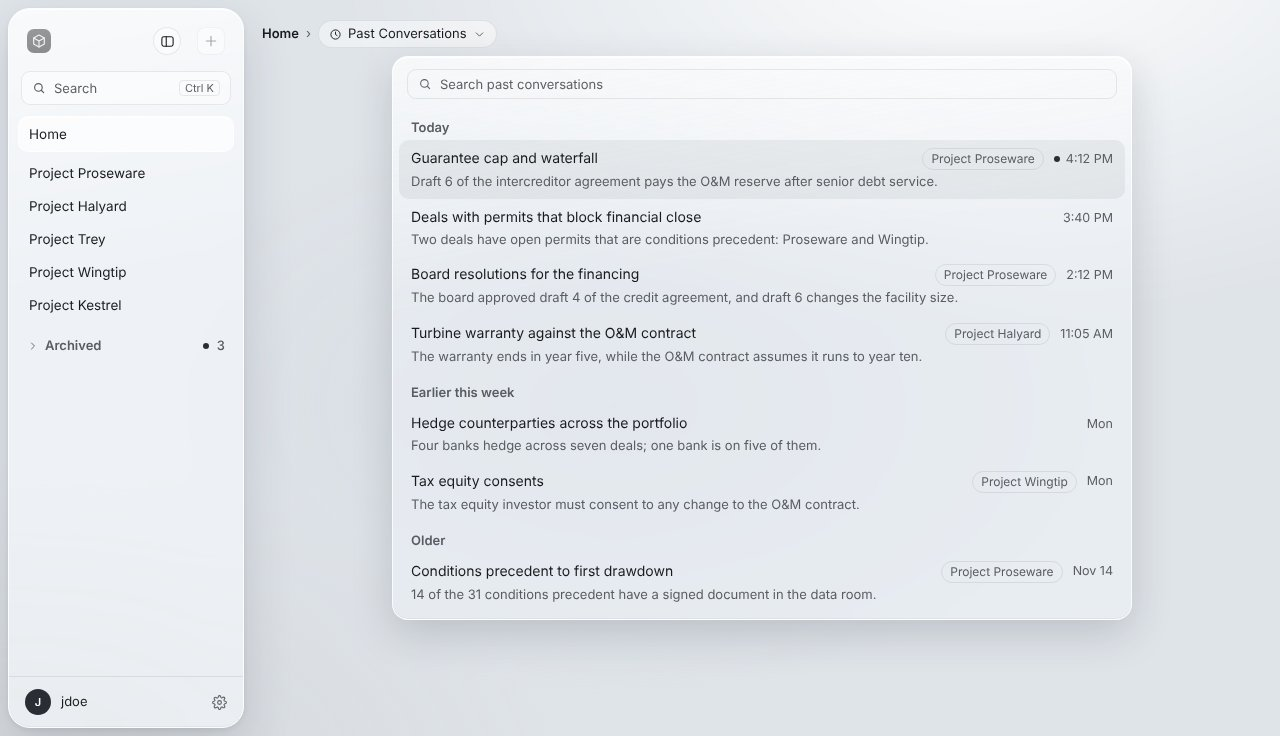
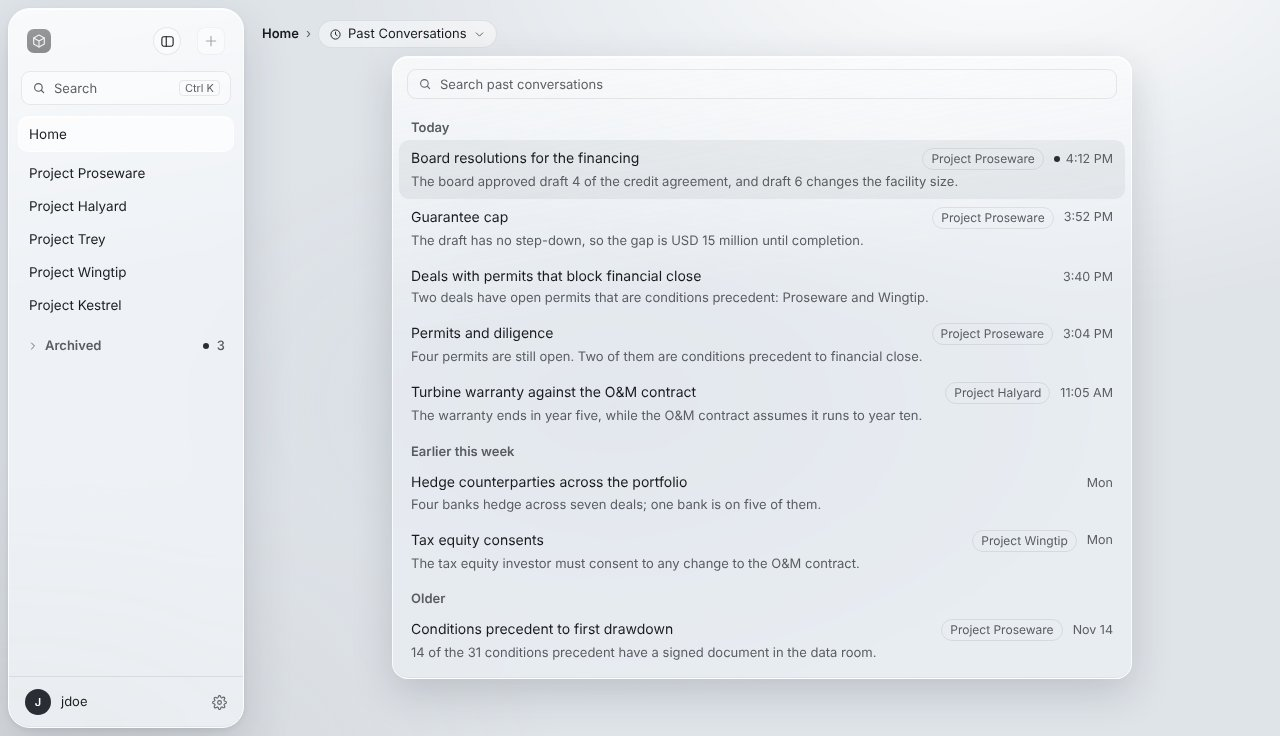
Address the review of the deal screen open points (#888)
Share the stage and the past conversation row instead of copying them, wrap the
two long lines, keep the built Checklist decision and move the one-list decision
to the Deal screen section, complete the section's list of what it replaces,
align Home's past conversations with the deal's, and say that a finished
question stays in Tasks under Completed.

diff --git a/docs/deal-screen/mock-open-questions.js b/docs/deal-screen/mock-open-questions.js
@@ -4,9 +4,6 @@
 // holds; Home opens past conversations from its own header; and the sidebar shows Archived at scale.
 // Loads after mock-qa.js and before mock-screens.js, which calls these builders.
 
-/** The page's stage, as mock-screens.js wraps every screen. */
-const openQuestionStage = (content) => `<section class="stage"><div class="x-stage">${content}</div></section>`;
-
 // ---- the deal's header, Deal Info and Folders ----
 
 const COUNTERPARTY = 'Contoso Wind Partners';
@@ -104,9 +101,11 @@ const RUN_DILIGENCE = '<button type="button" class="btn sm" title="Last run Nov 
 // the filters a short row folds into Filter, as the Checklist does when its row runs short of space
 const FOLDED_FILTERS = `<span class="x-ckfold">${iconButton('filter', 15, 'Filter')}</span>`;
 
-/** The Diligence tab: the approved report, every item with its result, and Run Diligence on its filter row. */
-const diligenceList = () => diligenceReport(false)
-  .replace(`${REPORT_FILTERS}</div>`, `${REPORT_FILTERS}${FOLDED_FILTERS}<span class="x-qact">${RUN_DILIGENCE}</span></div>`);
+// the end of the filter row: the folded filters, then Run Diligence
+const DILIGENCE_FILTER_ROW_END = `${REPORT_FILTERS}${FOLDED_FILTERS}<span class="x-qact">${RUN_DILIGENCE}</span></div>`;
+
+/** The Diligence tab: the approved report, with Run Diligence on its filter row. */
+const diligenceList = () => diligenceReport(false).replace(`${REPORT_FILTERS}</div>`, DILIGENCE_FILTER_ROW_END);
 
 // ---- Tasks: what Needs Input holds ----
 
@@ -149,31 +148,32 @@ const NEEDS_INPUT_TASKS = `<div class="x-lbl">Needs Input</div><div class="x-tgr
 // ---- Home's past conversations ----
 
 // every conversation, newest first, with its deal; a dot before the time marks one whose task result arrived since it
-// was last open
+// was last open, which moves it to the top
 const HOME_PAST_CONVERSATIONS = [
-  ['Today', 'Guarantee cap and waterfall', 'Project Proseware', '4:12 PM',
-    'Draft 6 of the intercreditor agreement pays the O&amp;M reserve after senior debt service.', true],
-  ['Today', 'Deals with permits that block financial close', '', '3:40 PM',
-    'Two deals have open permits that are conditions precedent: Proseware and Wingtip.'],
-  ['Today', 'Board resolutions for the financing', 'Project Proseware', '2:12 PM',
-    'The board approved draft 4 of the credit agreement, and draft 6 changes the facility size.'],
-  ['Today', 'Turbine warranty against the O&amp;M contract', 'Project Halyard', '11:05 AM',
-    'The warranty ends in year five, while the O&amp;M contract assumes it runs to year ten.'],
-  ['Earlier this week', 'Hedge counterparties across the portfolio', '', 'Mon',
-    'Four banks hedge across seven deals; one bank is on five of them.'],
-  ['Earlier this week', 'Tax equity consents', 'Project Wingtip', 'Mon',
-    'The tax equity investor must consent to any change to the O&amp;M contract.'],
-  ['Older', 'Conditions precedent to first drawdown', 'Project Proseware', 'Nov 14',
-    '14 of the 31 conditions precedent have a signed document in the data room.'],
+  ['Today', 'Board resolutions for the financing', '4:12 PM',
+    'The board approved draft 4 of the credit agreement, and draft 6 changes the facility size.',
+    'Project Proseware', true],
+  ['Today', 'Guarantee cap', '3:52 PM',
+    'The draft has no step-down, so the gap is USD 15 million until completion.', 'Project Proseware'],
+  ['Today', 'Deals with permits that block financial close', '3:40 PM',
+    'Two deals have open permits that are conditions precedent: Proseware and Wingtip.', ''],
+  ['Today', 'Permits and diligence', '3:04 PM',
+    'Four permits are still open. Two of them are conditions precedent to financial close.', 'Project Proseware'],
+  ['Today', 'Turbine warranty against the O&amp;M contract', '11:05 AM',
+    'The warranty ends in year five, while the O&amp;M contract assumes it runs to year ten.', 'Project Halyard'],
+  ['Earlier this week', 'Hedge counterparties across the portfolio', 'Mon',
+    'Four banks hedge across seven deals; one bank is on five of them.', ''],
+  ['Earlier this week', 'Tax equity consents', 'Mon',
+    'The tax equity investor must consent to any change to the O&amp;M contract.', 'Project Wingtip'],
+  ['Older', 'Conditions precedent to first drawdown', 'Nov 14',
+    '14 of the 31 conditions precedent have a signed document in the data room.', 'Project Proseware'],
 ];
 
-function homePastRow([group, title, deal, when, preview, updated], index) {
-  const startsGroup = index === 0 || HOME_PAST_CONVERSATIONS[index - 1][0] !== group;
+/** A row of Home's past conversations, with its deal's name and any new-result dot before its time. */
+function homePastRow([, , , , deal, updated], index) {
   const dealTag = deal ? `<span class="pa">${deal}</span>` : '';
   const dot = updated ? '<i class="x-upd" title="New result"></i>' : '';
-  return `${startsGroup ? `<div class="pg">${group}</div>` : ''}<a href="#" class="prow ${index === 0 ? 'on' : ''}">`
-    + `<span class="pt">${title}</span><span class="pm">${dealTag}${dot}${when}</span>`
-    + `<span class="pp">${preview}</span></a>`;
+  return pastConversationRow(HOME_PAST_CONVERSATIONS, index, `${dealTag}${dot}`);
 }
 
 /** Past conversations on Home: every deal's and Home's own, so the list has no This Deal choice. */
@@ -224,16 +224,16 @@ function fillSidebarAtScale() {
 // ---- the screens, and what is placed once they are on the page ----
 
 const OPEN_QUESTION_SCREENS = {
-  dealheader: () => sidebar() + openQuestionStage(conversation([TURN_PERMITS],
+  dealheader: () => sidebar() + stage(conversation([TURN_PERMITS],
     { title: CONVERSATION_TITLES.permits })),
   details: () => OPEN_QUESTION_SCREENS.dealheader(),
   folders: () => OPEN_QUESTION_SCREENS.dealheader(),
-  diligence: () => slimRail() + openQuestionStage(inPermitsChat([TURN_PERMITS, TURN_DILIGENCE_DONE])
+  diligence: () => slimRail() + stage(inPermitsChat([TURN_PERMITS, TURN_DILIGENCE_DONE])
     + pane(paneTabs([TASKS_TAB, DILIGENCE_TAB], 'diligence'), diligenceList(), paneWidth())),
-  needsinput: () => slimRail() + openQuestionStage(inPermitsChat([TURN_PERMITS, TURN_DILIGENCE_DONE])
+  needsinput: () => slimRail() + stage(inPermitsChat([TURN_PERMITS, TURN_DILIGENCE_DONE])
     + pane(paneTabs([TASKS_TAB], 'tasks'), NEEDS_INPUT_TASKS, paneWidth())),
-  homepast: () => sidebar() + openQuestionStage(homeScreen()),
-  archscale: () => sidebar() + openQuestionStage(homeScreen()),
+  homepast: () => sidebar() + stage(homeScreen()),
+  archscale: () => sidebar() + stage(homeScreen()),
 };
 
 /** Shows the deal name's tooltip under it, as the app's tooltips show. */

diff --git a/docs/deal-screen/mock-sidebar.js b/docs/deal-screen/mock-sidebar.js
@@ -117,14 +117,18 @@ const PAST_CONVERSATIONS = [
     'The letter hedges 75% of the floating rate for the first seven years.'],
 ];
 
-function pastConversationRow([group, title, when, preview], index) {
-  const startsGroup = index === 0 || PAST_CONVERSATIONS[index - 1][0] !== group;
+/** A row of a past conversations list, under its group's heading when it starts one; `beforeTime` goes ahead of the
+ * time (on Home, the deal's name and the new-result dot). */
+function pastConversationRow(rows, index, beforeTime = '') {
+  const [group, title, when, preview] = rows[index];
+  const startsGroup = index === 0 || rows[index - 1][0] !== group;
   return `${startsGroup ? `<div class="pg">${group}</div>` : ''}<a href="#" class="prow ${index === 0 ? 'on' : ''}">`
-    + `<span class="pt">${title}</span><span class="pm">${when}</span><span class="pp">${preview}</span></a>`;
+    + `<span class="pt">${title}</span><span class="pm">${beforeTime}${when}</span>`
+    + `<span class="pp">${preview}</span></a>`;
 }
 
 function pastConversationsList() {
-  const rows = PAST_CONVERSATIONS.map(pastConversationRow).join('');
+  const rows = PAST_CONVERSATIONS.map((_, index) => pastConversationRow(PAST_CONVERSATIONS, index)).join('');
   return '<div class="pastpop down" role="dialog" aria-label="Past conversations"><div class="ptop">'
     + `<label class="psearch">${icon('search', 14)}<input placeholder="Search past conversations"></label>`
     + '<div class="pseg"><button type="button" class="on">This Deal</button><button type="button">All Deals</button>'

diff --git a/docs/deal-screen/mock-parts.js b/docs/deal-screen/mock-parts.js
@@ -8,8 +8,6 @@ document.documentElement.dataset.theme = hashParams.get('theme') || 'dark';
 const windowWidth = innerWidth;
 const narrowWindow = windowWidth <= 1180;
 
-// the board resolutions task's short name, so it reads whole on its tab, its card and its row
-const BOARD_TASK = 'Resolutions';
 const sidebarWidth = narrowWindow ? 208 : 236;
 // screens shown with the sidebar open and no pane (#888, step 3)
 const FULL_SIDEBAR_SCREENS = ['dealheader', 'details', 'folders', 'homepast', 'archscale'];
@@ -17,6 +15,12 @@ const FULL_SIDEBAR_SCREENS = ['dealheader', 'details', 'folders', 'homepast', 'a
 // pane closes; `side=1` shows it pinned open
 const sidebarFolded = hashParams.get('side') !== '1'
   && !['empty', 'active', ...FULL_SIDEBAR_SCREENS].includes(screen);
+
+// the board resolutions task's short name, so it reads whole on its tab and its row
+const BOARD_TASK = 'Resolutions';
+
+/** The page's stage, which holds every screen's conversation and pane. */
+const stage = (content) => `<section class="stage"><div class="x-stage">${content}</div></section>`;
 
 /** An icon from icons.js as an SVG, at the given size and stroke width. */
 function icon(name, size = 16, strokeWidth = 1.75) {

diff --git a/docs/deal-screen/mock-screens.js b/docs/deal-screen/mock-screens.js
@@ -16,7 +16,7 @@ const PANE_SCREENS = {
   // whose answer arrives there
   switch: () => [conversation([TURN_GUARANTEE_CAP],
     { title: CONVERSATION_TITLES.guarantee, open: true, top: true }),
-  pane(paneTabs([TASKS_TAB, runningDiligenceTab], 'tasks'), TASKS_LIST, paneWidth())],
+    pane(paneTabs([TASKS_TAB, runningDiligenceTab], 'tasks'), TASKS_LIST, paneWidth())],
   report: () => [inPermitsChat([TURN_PERMITS, TURN_DILIGENCE_DONE]),
     pane(paneTabs([TASKS_TAB, DILIGENCE_TAB], 'diligence'), diligenceReport(false), paneWidth())],
   issue: () => [inPermitsChat([TURN_PERMITS, TURN_DILIGENCE_DONE, TURN_GUARANTEE_CAP]),
@@ -60,7 +60,6 @@ function emptyDeal() {
 
 function screenHtml() {
   if (screen in OPEN_QUESTION_SCREENS) return OPEN_QUESTION_SCREENS[screen]();
-  const stage = (content) => `<section class="stage"><div class="x-stage">${content}</div></section>`;
   if (screen === 'empty') return sidebar() + stage(emptyDeal());
   if (screen === 'active') {
     return sidebar() + stage(conversation([TURN_PERMITS], { title: CONVERSATION_TITLES.permits }));

diff --git a/docs/deal-screen/mock-chat.js b/docs/deal-screen/mock-chat.js
@@ -69,7 +69,8 @@ const TURN_DRAFT_RESPONSE = `<div class="me">Draft a response to Q433 from the d
   + ` for review and is not sent until it is accepted.</p>${ACTIONS_MARK}</div>`;
 
 const TURN_RECHECK = `<div class="me">Two new files arrived in 04 Legal. Check them against the checklist.</div>
-<div class="ai"><p>Checking the checklist and findings against the 2 new files. The report updates as each item is checked.</p>
+<div class="ai"><p>Checking the checklist and findings against the 2 new files.`
+  + ` The report updates as each item is checked.</p>
 ${taskCard('cklist', 'Diligence', '1,204 of 2,148', 0.56)}</div>`;
 
 /** Puts the answer actions in place of the last mark only; earlier marks stay as empty comments. */

diff --git a/docs/decisions.md b/docs/decisions.md
@@ -147,9 +147,7 @@ Many entries refer to the control file, `src/control.ts`, where a deployment set
 - **Turn Off Item** is in an item's ⋯ menu; a turned-off item stays in place, dimmed.
 - A list can be pasted in or imported from any clearly laid-out file. The model reads it, every line is accounted for, and lines left out are listed with a checkbox to bring them in. Here accuracy comes before cost: the standard model reads the list, and the thorough model retries lines it couldn't place.
 - An item that joins two conditions becomes two items, and "(if applicable)" goes only on an item that may not apply to every deal.
-- The checklist is the starting point for diligence, and each item's result is a finding, whether satisfied, flagged,
-  a gap, or not settled: the Checklist and findings are one list, not two. A flagged result is closed on its finding
-  (#888).
+- Findings is the worklist and the Checklist is the coverage record; nothing is opened or closed on the Checklist.
 - An opened gap says what is needed and which documents were read, naming any that couldn't be read.
 - A document opened from the Checklist opens in reading mode and returns to the same item.
 - A "Satisfied" result should cite a source that opens. A result the model can't place should be left not settled,
@@ -313,14 +311,18 @@ Many entries refer to the control file, `src/control.ts`, where a deployment set
 ## Deal screen
 
 These decisions are for the rebuilt deal screen in [deal-screen-design.md](deal-screen-design.md) and are not built yet
-(#881). Once built, they replace Deal status wherever it appears (Pages and navigation, Working rules), **Past
+(#881). Once built, they replace Deal status wherever it appears (Look and feel, Pages and navigation), **Past
 Conversations** in every composer (Conversations), and **Keep It** in confirms (Working rules).
-They also replace the deal header, Overview, the Findings page, and **Deals Open On** (Pages and navigation), and
-Check again's place and **Check the N Left Out** (AI and models).
+They also replace the deal header, Overview, the Findings page, and **Deals Open On** (Pages and navigation); the
+Findings worklist beside the Checklist (Findings, Checklist); Overview's counts (Checklist); **Deal Memo…** in the ⋯
+menu (Deal memo); and Check again's place and **Check the N Left Out** (Findings, AI and models).
 
 - A deal shows its conversation on the left and, when opened, one pane on the right. The pane's tabs are Tasks, Diligence, and Q&A, always in that order, followed by any opened finding, document, or task, each with ×.
 - The selected tab is 1.5 times as wide as each other tab, and the rest share the bar equally. A hairline separates unselected tabs, the selected tab sits raised, and tabs show no counts. An unselected tab too narrow for its name drops its icon before shortening the word. The Diligence tab uses the Checklist's icon.
 - The sidebar folds to its slim rail while the pane is open and comes back when it closes. A sidebar pinned open stays, and the conversation narrows; the pane gives way only to keep the conversation at least 400px wide.
+- The checklist is the starting point for diligence, and each item's result is a finding, whether satisfied, flagged,
+  a gap, or not settled: the Diligence list and findings are one list, not two. A flagged result is closed on its
+  finding (#888).
 - A deal has no Deal status. The sidebar lists deals in one list, ordered by when the person last worked on each
   deal, and **Archive Deal** hides one.
 - A deal's ⋯ menu offers **Archive Deal**, which asks first in the app's confirm dialog. Archived deals fold under **Archived**; a dot marks an archived deal whose data room changed, with its update line ("4 new files · 11:20 AM"). An archived deal's ⋯ menu offers **Unarchive Deal**.
@@ -342,8 +344,8 @@ Check again's place and **Check the N Left Out** (AI and models).
   the Diligence list under Flagged (#888).
 - A deal opens on a new conversation, with the pane as the person last left it (#888).
 - A question asked in a conversation is answered in that conversation, and anything it needs from the person is
-  asked there. It appears in Tasks only while it runs after the person leaves the conversation. Diligence, imports,
-  indexing, Deal Memo, and draft responses always run as tasks (#888).
+  asked there. It appears in Tasks only once the person leaves the conversation while it runs, and stays there under
+  Completed once it finishes. Diligence, imports, indexing, Deal Memo, and draft responses always run as tasks (#888).
 - Needs Input holds drafts ready to review, items Diligence did not check ("N items not checked", **Run**), and
   questions left running that wait on the person ("Awaiting draft selection", **Answer**). Its buttons share one
   width (#888).

diff --git a/docs/deal-screen-design.md b/docs/deal-screen-design.md
@@ -58,7 +58,7 @@ Screens 27 to 30 and 32 to 34 answer the points the screens above left open, as 
 | 27 | [Deal header](deal-screen/shots/27-deal-header-light-1280x736.jpg) | The deal's name and counterparty, which open Deal Info, and Deal Memo |
 | 28 | [Deal Info](deal-screen/shots/28-deal-info-light-1280x736.jpg) | The deal's details, its folders, and Delete Deal |
 | 29 | [Folders](deal-screen/shots/29-folders-light-1280x736.jpg) | Overview's Documents list in the Folders dialog |
-| 30 | [Diligence](deal-screen/shots/30-diligence-light-1280x736.jpg) | Every checklist item with its result, one row of filters, and **Run Diligence** |
+| 30 | [Diligence](deal-screen/shots/30-diligence-light-1280x736.jpg) | The report's flagged items and gaps under All, one row of filters, and **Run Diligence** |
 | 32 | [Needs Input](deal-screen/shots/32-tasks-needs-input-light-1280x736.jpg) | What Needs Input holds: workflows, and a question from another conversation |
 | 33 | [Home's past conversations](deal-screen/shots/33-home-past-conversations-light-1280x736.jpg) | Home's history button, with a conversation that has a new result |
 | 34 | [Archived at scale](deal-screen/shots/34-archived-at-scale-light-1280x736.jpg) | The end of a 40-deal list, with all 12 archived deals and changed ones first |
